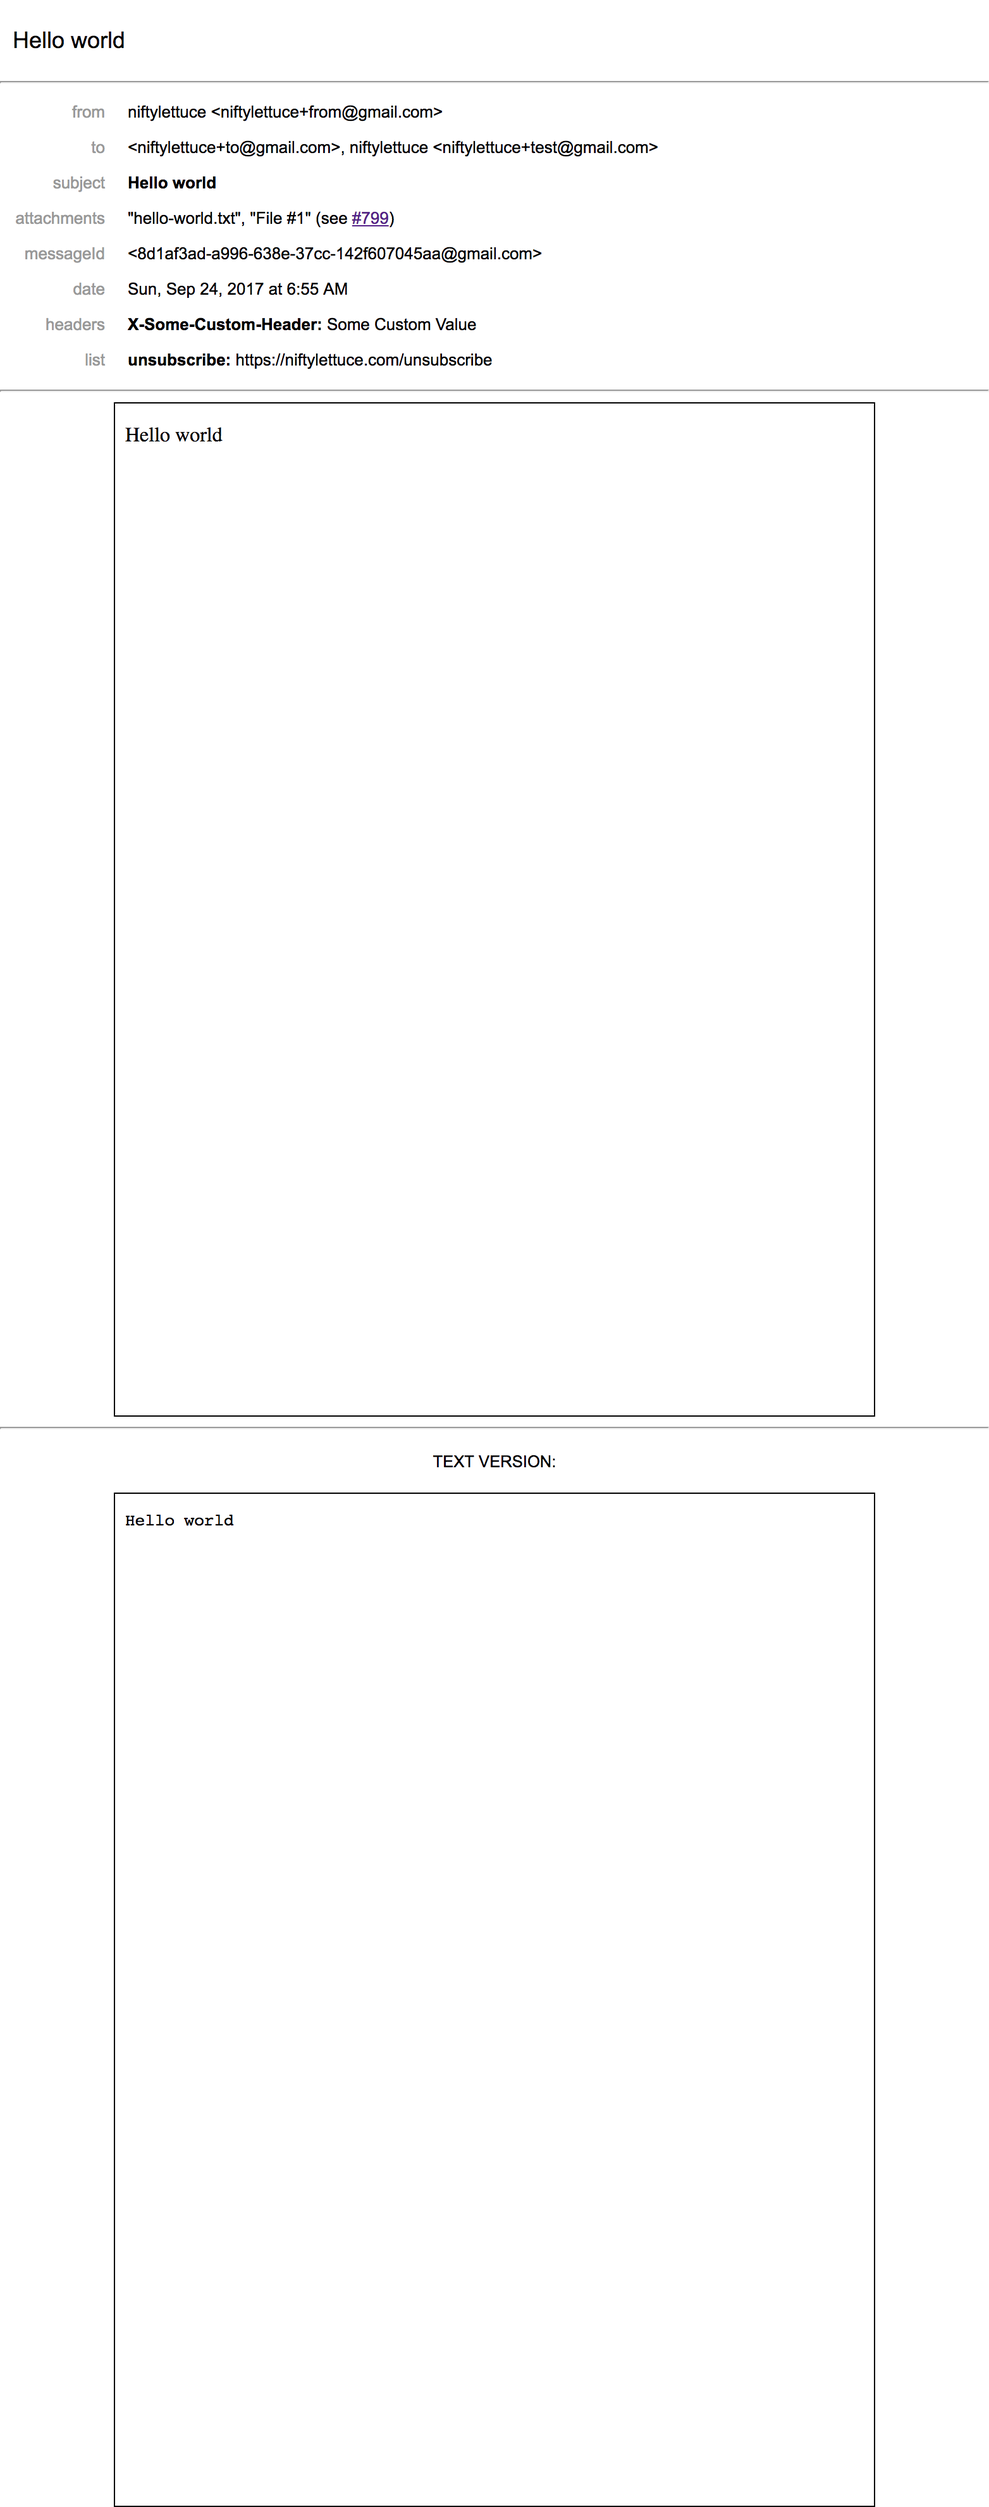
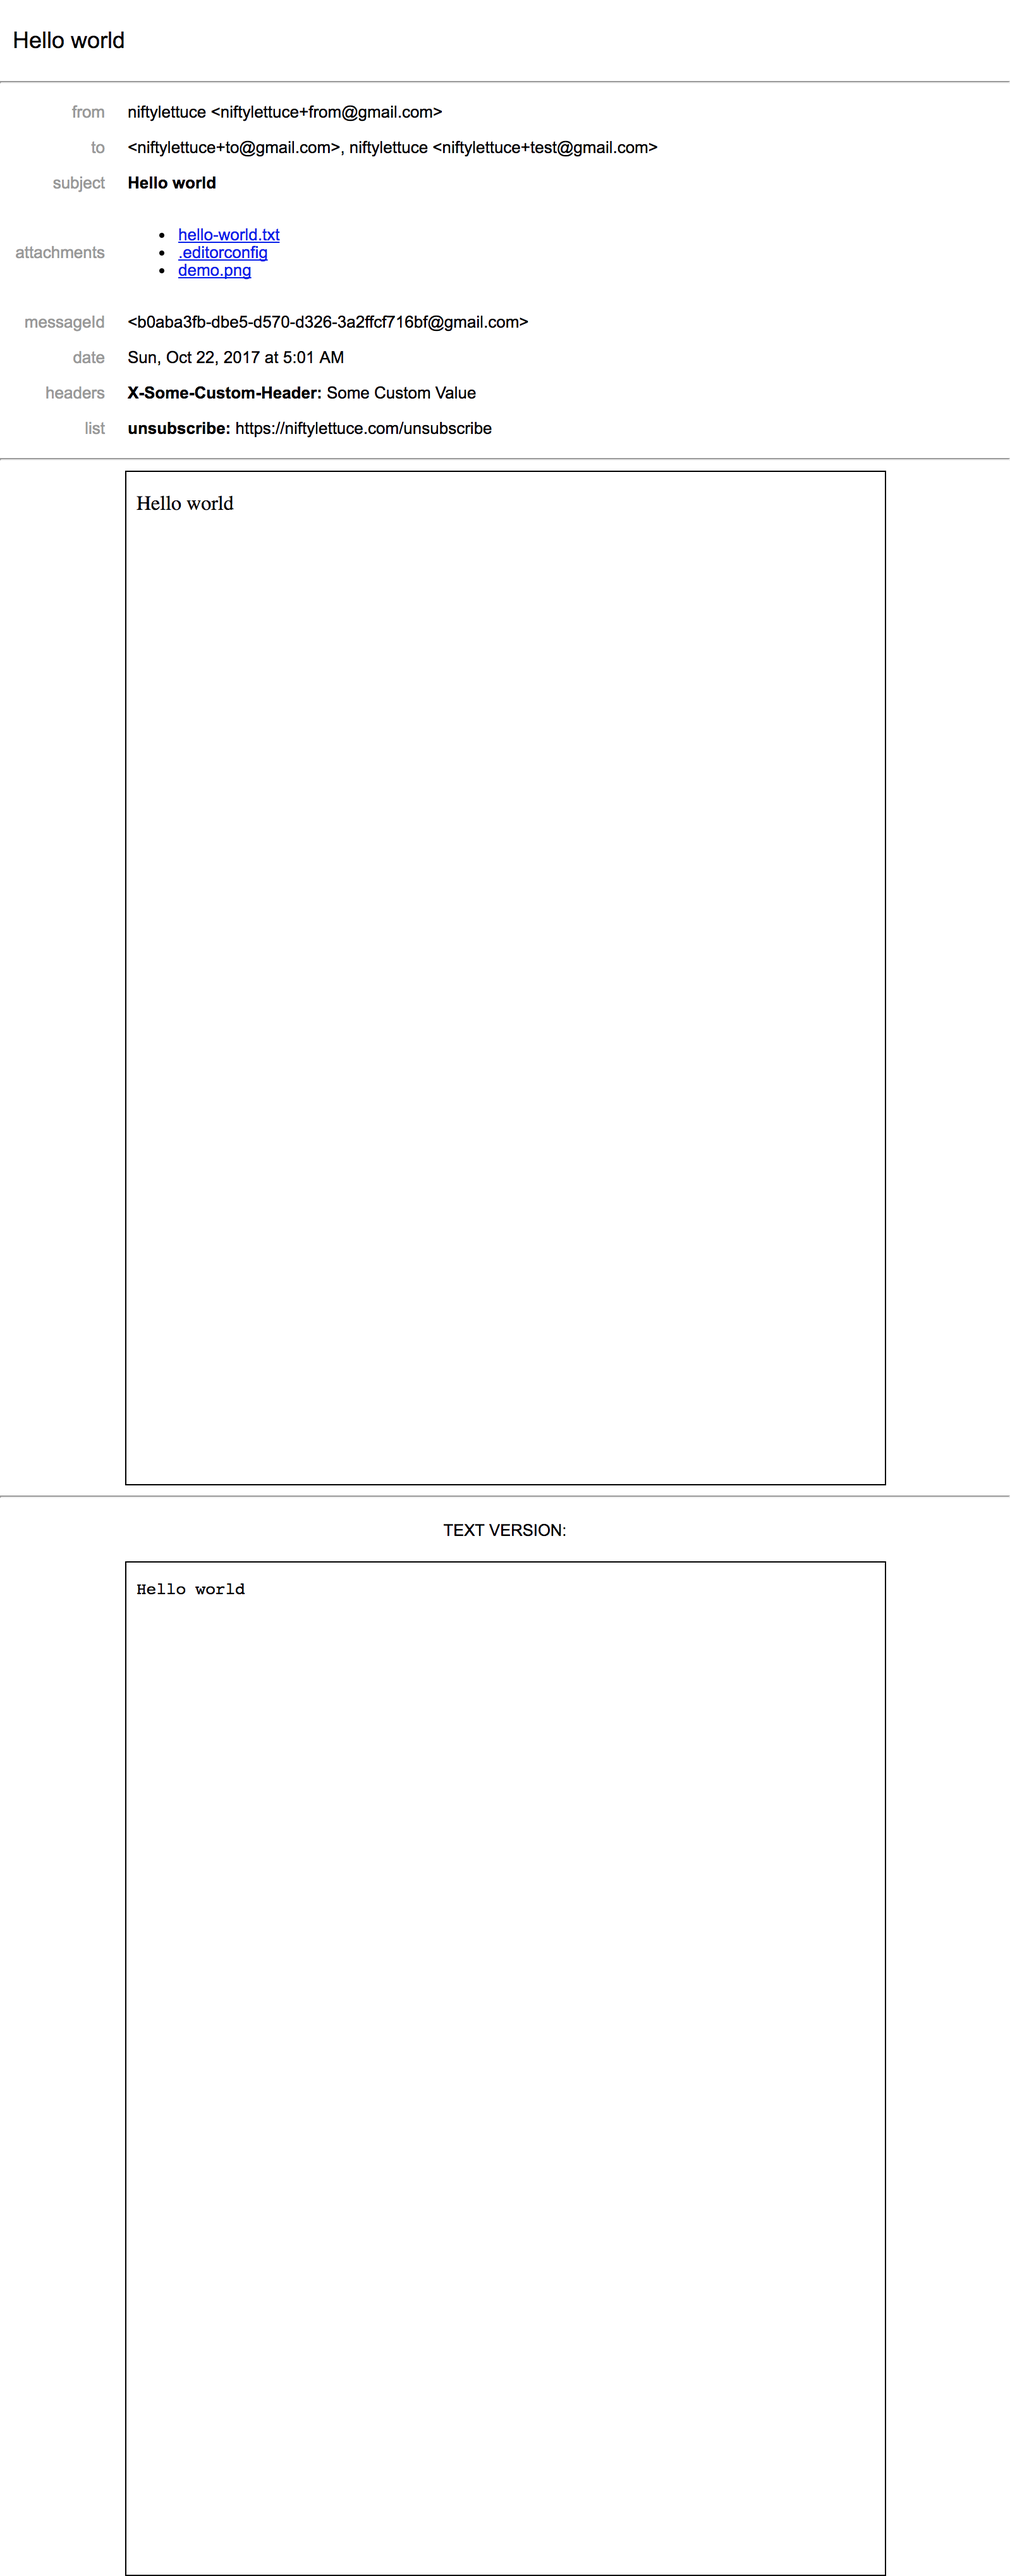
Added attachments per https://github.com/nodemailer/nodemailer/issues/799 and https://github.com/niftylettuce/email-templates/issues/250

diff --git a/test/test.js b/test/test.js
@@ -16,7 +16,8 @@ test('opens a preview email', async t => {
     text: 'Hello world',
     attachments: [
       { filename: 'hello-world.txt', content: 'Hello world' },
-      { path: path.join(__dirname, '..', '.editorconfig') }
+      { path: path.join(__dirname, '..', '.editorconfig') },
+      { path: path.join(__dirname, '..', 'demo.png') }
     ],
     headers: {
       'X-Some-Custom-Header': 'Some Custom Value'
